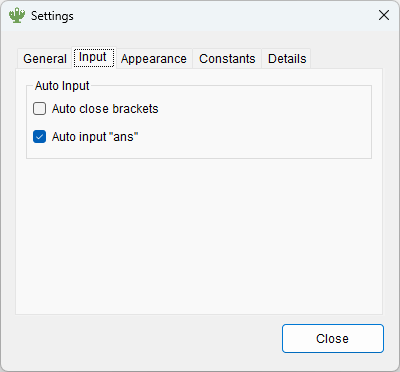
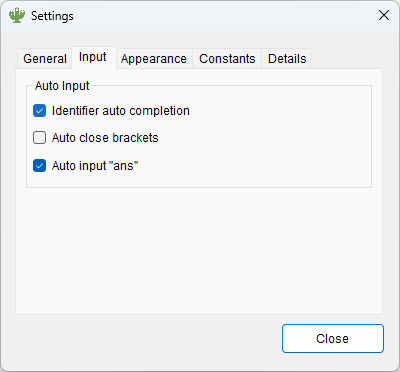
#51 add context menu item "Paste Text without Commas"

Changed region(s): [[0.06, 0.2661, 0.48, 0.3844], [0.06, 0.414, 0.36, 0.4731], [0.9, 0.414, 0.93, 0.4435]]

diff --git a/Calctus/UI/SettingsDialog.Designer.cs b/Calctus/UI/SettingsDialog.Designer.cs
@@ -65,6 +65,7 @@
             this.columnHeader4 = ((System.Windows.Forms.ColumnHeader)(new System.Windows.Forms.ColumnHeader()));
             this.constEditButton = new System.Windows.Forms.Button();
             this.Hotkey_KeyCode = new Shapoco.Calctus.UI.KeyCodeBox();
+            this.Input_IdAutoCompletion = new System.Windows.Forms.CheckBox();
             this.eNoteGroup.SuspendLayout();
             ((System.ComponentModel.ISupportInitialize)(this.NumberFormat_Exp_NegativeMax)).BeginInit();
             ((System.ComponentModel.ISupportInitialize)(this.NumberFormat_Exp_PositiveMin)).BeginInit();
@@ -282,10 +283,11 @@
             // groupBox3
             // 
             this.groupBox3.Controls.Add(this.Input_AutoInputAns);
+            this.groupBox3.Controls.Add(this.Input_IdAutoCompletion);
             this.groupBox3.Controls.Add(this.Input_AutoCloseBrackets);
             this.groupBox3.Location = new System.Drawing.Point(6, 6);
             this.groupBox3.Name = "groupBox3";
-            this.groupBox3.Size = new System.Drawing.Size(297, 66);
+            this.groupBox3.Size = new System.Drawing.Size(297, 89);
             this.groupBox3.TabIndex = 0;
             this.groupBox3.TabStop = false;
             this.groupBox3.Text = "Auto Input";
@@ -293,7 +295,7 @@
             // Input_AutoInputAns
             // 
             this.Input_AutoInputAns.AutoSize = true;
-            this.Input_AutoInputAns.Location = new System.Drawing.Point(6, 40);
+            this.Input_AutoInputAns.Location = new System.Drawing.Point(6, 63);
             this.Input_AutoInputAns.Name = "Input_AutoInputAns";
             this.Input_AutoInputAns.Size = new System.Drawing.Size(111, 16);
             this.Input_AutoInputAns.TabIndex = 1;
@@ -303,7 +305,7 @@
             // Input_AutoCloseBrackets
             // 
             this.Input_AutoCloseBrackets.AutoSize = true;
-            this.Input_AutoCloseBrackets.Location = new System.Drawing.Point(6, 18);
+            this.Input_AutoCloseBrackets.Location = new System.Drawing.Point(6, 41);
             this.Input_AutoCloseBrackets.Name = "Input_AutoCloseBrackets";
             this.Input_AutoCloseBrackets.Size = new System.Drawing.Size(127, 16);
             this.Input_AutoCloseBrackets.TabIndex = 0;
@@ -549,6 +551,16 @@
             this.Hotkey_KeyCode.TabIndex = 3;
             this.Hotkey_KeyCode.Win = false;
             // 
+            // Input_IdAutoCompletion
+            // 
+            this.Input_IdAutoCompletion.AutoSize = true;
+            this.Input_IdAutoCompletion.Location = new System.Drawing.Point(6, 19);
+            this.Input_IdAutoCompletion.Name = "Input_IdAutoCompletion";
+            this.Input_IdAutoCompletion.Size = new System.Drawing.Size(154, 16);
+            this.Input_IdAutoCompletion.TabIndex = 0;
+            this.Input_IdAutoCompletion.Text = "Identifier auto completion";
+            this.Input_IdAutoCompletion.UseVisualStyleBackColor = true;
+            // 
             // SettingsDialog
             // 
             this.AcceptButton = this.closeButton;
@@ -632,5 +644,6 @@
         private System.Windows.Forms.ColumnHeader columnHeader3;
         private System.Windows.Forms.ColumnHeader columnHeader4;
         private System.Windows.Forms.Button constEditButton;
+        private System.Windows.Forms.CheckBox Input_IdAutoCompletion;
     }
 }

diff --git a/Calctus/UI/ExpressionBox.cs b/Calctus/UI/ExpressionBox.cs
@@ -370,7 +370,7 @@ namespace Shapoco.Calctus.UI {
             }
         }
 
-        public void Paste() {
+        public void Paste(PasteOption opt = PasteOption.Default) {
             try {
                 if (this.ReadOnly || !Clipboard.ContainsText()) {
                     throw new InvalidOperationException();
@@ -380,6 +380,9 @@ namespace Shapoco.Calctus.UI {
                 clipText = clipText.Replace("\t", " ");
                 clipText = clipText.Replace("\r", "");
                 clipText = clipText.Replace("\n", " ");
+                if (opt.HasFlag(PasteOption.WithoutCommas)) {
+                    clipText = clipText.Replace(",", "");
+                }
                 this.SelectedText = clipText;
                 setSelection(selStart + clipText.Length);
             }
@@ -596,8 +599,10 @@ namespace Shapoco.Calctus.UI {
                     Undo();
                 }
                 else if (e.KeyCode == Keys.Space) {
-                    e.Handled = true;
-                    showCandidates();
+                    if (Settings.Instance.Input_IdAutoCompletion) {
+                        e.Handled = true;
+                        showCandidates();
+                    }
                 }
             }
             
@@ -640,8 +645,10 @@ namespace Shapoco.Calctus.UI {
                 selStart = this.SelectionStart;
                 var prevChar = selStart >= 2 ? text[selStart - 2] : '\0';
                 if (!isIdChar(prevChar) && isFirstIdChar(e.KeyChar)) {
-                    // 識別子の先頭文字が入力されたら補完候補を表示する
-                    showCandidates();
+                    if (Settings.Instance.Input_IdAutoCompletion) {
+                        // 識別子の先頭文字が入力されたら補完候補を表示する
+                        showCandidates();
+                    }
                 }
                 else if (isIdChar(e.KeyChar)) {
                     // 識別子の2文字目以降が表示されたら補完候補を更新する

diff --git a/Calctus/UI/CalcListBox.cs b/Calctus/UI/CalcListBox.cs
@@ -27,6 +27,7 @@ namespace Shapoco.Calctus.UI {
         private ToolStripMenuItem _cmenuTextCut = new ToolStripMenuItem("Cut Text");
         private ToolStripMenuItem _cmenuTextCopy = new ToolStripMenuItem("Copy Text");
         private ToolStripMenuItem _cmenuTextPaste = new ToolStripMenuItem("Paste Text");
+        private ToolStripMenuItem _cmenuTextPasteWithoutComma = new ToolStripMenuItem("Paste Text without Commas");
         private ToolStripMenuItem _cmenuTextDelete = new ToolStripMenuItem("Delete Text");
         private ToolStripSeparator _cmenuSep0 = new ToolStripSeparator();
         private ToolStripMenuItem _cmenuCopyAll = new ToolStripMenuItem("Copy All");
@@ -68,6 +69,7 @@ namespace Shapoco.Calctus.UI {
             _cmenuTextCut.Click += (sender, e) => { this.SelectedItem?.OnCutText(); };
             _cmenuTextCopy.Click += (sender, e) => { this.SelectedItem?.OnCopyText(); };
             _cmenuTextPaste.Click += (sender, e) => { this.SelectedItem?.OnPasteText(); };
+            _cmenuTextPasteWithoutComma.Click += (sender, e) => { this.SelectedItem?.OnPasteText(PasteOption.WithoutCommas); };
             _cmenuTextDelete.Click += (sender, e) => { this.SelectedItem?.OnDeleteText(); };
             _cmenuCopyAll.Click += (sender, e) => { this.CopyAll(); };
             _cmenuMoveUp.Click += (sender, e) => { this.ItemMoveUp(); };
@@ -80,6 +82,7 @@ namespace Shapoco.Calctus.UI {
                 _cmenuTextCut,
                 _cmenuTextCopy,
                 _cmenuTextPaste,
+                _cmenuTextPasteWithoutComma,
                 _cmenuTextDelete,
                 _cmenuSep0,
                 _cmenuCopyAll,

diff --git a/Calctus/UI/SettingsDialog.cs b/Calctus/UI/SettingsDialog.cs
@@ -40,6 +40,7 @@ namespace Shapoco.Calctus.UI {
                 s.HotKey_KeyCode = kcb.KeyCode;
             };
 
+            Input_IdAutoCompletion.CheckedChanged += (sender, e) => { s.Input_IdAutoCompletion = ((CheckBox)sender).Checked; };
             Input_AutoCloseBrackets.CheckedChanged += (sender, e) => { s.Input_AutoCloseBrackets = ((CheckBox)sender).Checked; };
             Input_AutoInputAns.CheckedChanged += (sender, e) => { s.Input_AutoInputAns = ((CheckBox)sender).Checked; };
 
@@ -90,6 +91,7 @@ namespace Shapoco.Calctus.UI {
                 Hotkey_Enabled.Checked = s.Hotkey_Enabled;
                 Hotkey_KeyCode.SetKeyCode(s.HotKey_Win, s.HotKey_Alt, s.HotKey_Ctrl, s.HotKey_Shift, s.HotKey_KeyCode);
 
+                Input_IdAutoCompletion.Checked = s.Input_IdAutoCompletion;
                 Input_AutoCloseBrackets.Checked = s.Input_AutoCloseBrackets;
                 Input_AutoInputAns.Checked = s.Input_AutoInputAns;
 

diff --git a/Calctus/Settings.cs b/Calctus/Settings.cs
@@ -32,6 +32,7 @@ namespace Shapoco.Calctus {
         public bool HotKey_Shift { get; set; } = false;
         public Keys HotKey_KeyCode { get; set; } = Keys.None;
 
+        public bool Input_IdAutoCompletion { get; set; } = true;
         public bool Input_AutoCloseBrackets { get; set; } = true;
         public bool Input_AutoInputAns { get; set; } = true;
 

diff --git a/Calctus/UI/CalcListItem.cs b/Calctus/UI/CalcListItem.cs
@@ -128,9 +128,9 @@ namespace Shapoco.Calctus.UI {
             }
         }
 
-        public void OnPasteText() {
+        public void OnPasteText(PasteOption opt = PasteOption.Default) {
             if (_exprBox.Focused) {
-                _exprBox.Paste();
+                _exprBox.Paste(opt);
             }
         }
 

diff --git a/Calctus/UI/Types.cs b/Calctus/UI/Types.cs
@@ -8,4 +8,10 @@ namespace Shapoco.Calctus.UI {
     public enum RadixMode {
         Auto, Dec, Hex, Bin, Oct
     }
+
+    [Flags]
+    public enum PasteOption {
+        Default = 0, 
+        WithoutCommas = 1,
+    }
 }
